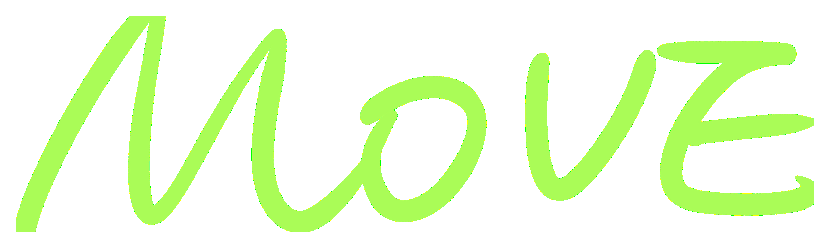
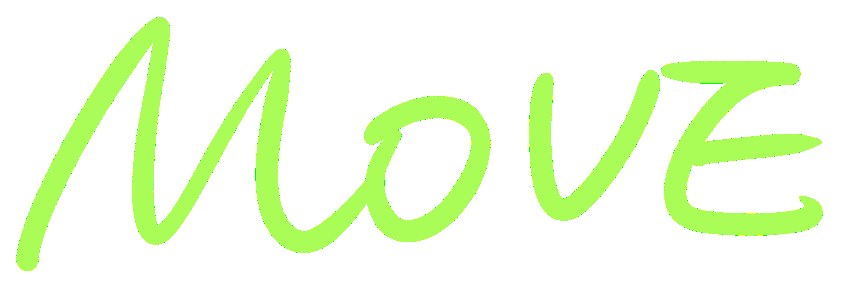
Refine ultrawide details and add back to top

diff --git a/handwriting.css b/handwriting.css
@@ -102,8 +102,84 @@
 .handword--move {
   --handword-image: url("assets/handwriting/move.png");
   --handword-width: 2.88em;
-  --handword-height: 0.86em;
+  --handword-height: 0.97em;
   --handword-rotate: -0.4deg;
+}
+
+.back-to-top {
+  position: fixed;
+  right: clamp(16px, 2vw, 32px);
+  bottom: clamp(16px, 2vw, 28px);
+  z-index: 950;
+  display: grid;
+  width: 44px;
+  height: 44px;
+  padding: 0;
+  place-items: center;
+  border: 1px solid rgba(17, 17, 15, 0.24);
+  border-radius: 50%;
+  background: rgba(247, 247, 244, 0.88);
+  color: #171714;
+  cursor: pointer;
+  opacity: 0;
+  pointer-events: none;
+  transform: translateY(10px);
+  transition:
+    color 220ms ease,
+    border-color 220ms ease,
+    background-color 220ms ease,
+    opacity 220ms ease,
+    transform 360ms cubic-bezier(0.16, 1, 0.3, 1);
+  -webkit-backdrop-filter: blur(12px);
+  backdrop-filter: blur(12px);
+}
+
+.back-to-top.is-visible {
+  opacity: 1;
+  pointer-events: auto;
+  transform: translateY(0);
+}
+
+.back-to-top:hover,
+.back-to-top:focus-visible {
+  border-color: #a6df00;
+  background: #a6df00;
+  color: #11110f;
+}
+
+.back-to-top:focus-visible {
+  outline: 2px solid #171714;
+  outline-offset: 3px;
+}
+
+.back-to-top__arrow {
+  position: relative;
+  display: block;
+  width: 12px;
+  height: 17px;
+}
+
+.back-to-top__arrow::before {
+  position: absolute;
+  top: 2px;
+  left: 50%;
+  width: 8px;
+  height: 8px;
+  border-top: 1.5px solid currentColor;
+  border-left: 1.5px solid currentColor;
+  content: "";
+  transform: translateX(-50%) rotate(45deg);
+}
+
+.back-to-top__arrow::after {
+  position: absolute;
+  top: 3px;
+  bottom: 1px;
+  left: 50%;
+  width: 1.5px;
+  background: currentColor;
+  content: "";
+  transform: translateX(-50%);
 }
 
 .handword--shape {
@@ -238,6 +314,15 @@
   }
 }
 
+@media (min-width: 1800px) {
+  .d-cap-card:nth-child(4) .d-cap-sticker-image {
+    --cap-sticker-x: 28px;
+    --cap-sticker-y: 26px;
+    --cap-sticker-render-scale: 0.94;
+    --cap-sticker-hover-render-scale: 0.975;
+  }
+}
+
 @media (min-width: 761px) and (max-width: 1120px) {
   .d-hero h1.d-hero__statement {
     max-width: 44vw;
@@ -275,6 +360,13 @@
 }
 
 @media (max-width: 760px) {
+  .back-to-top {
+    right: 14px;
+    bottom: 14px;
+    width: 40px;
+    height: 40px;
+  }
+
   .d-hero {
     min-height: 0;
     padding-top: 64px;

diff --git a/index.html b/index.html
@@ -7569,6 +7569,10 @@
       <p>© <span data-year></span> Cici</p>
     </footer>
 
+    <button class="back-to-top" type="button" data-back-to-top aria-label="Back to top">
+      <span class="back-to-top__arrow" aria-hidden="true"></span>
+    </button>
+
     <canvas class="lime-cursor-trail" data-lime-cursor-trail aria-hidden="true"></canvas>
     <span class="lime-cursor-dot" data-lime-cursor-dot aria-hidden="true"></span>
 
@@ -7577,6 +7581,7 @@
     <script>
       const header = document.querySelector("[data-header]");
       const progress = document.querySelector("[data-scroll-progress]");
+      const backToTop = document.querySelector("[data-back-to-top]");
       const menuToggle = document.querySelector("[data-menu-toggle]");
       const navigation = document.querySelector("[data-nav]");
       const navLinks = Array.from(document.querySelectorAll(".site-nav a, .d-nav a"));
@@ -8818,9 +8823,17 @@
         const ratio = maxScroll > 0 ? clamp(window.scrollY / maxScroll, 0, 1) : 0;
         progress?.style.setProperty("transform", "scaleX(" + ratio + ")");
         header?.classList.toggle("is-scrolled", window.scrollY > 18);
+        backToTop?.classList.toggle("is-visible", window.scrollY > window.innerHeight * 0.75);
         updateCapabilities();
         updateResumeRail();
       }
+
+      backToTop?.addEventListener("click", function () {
+        window.scrollTo({
+          top: 0,
+          behavior: reducedMotion.matches ? "auto" : "smooth",
+        });
+      });
 
       window.addEventListener(
         "scroll",
